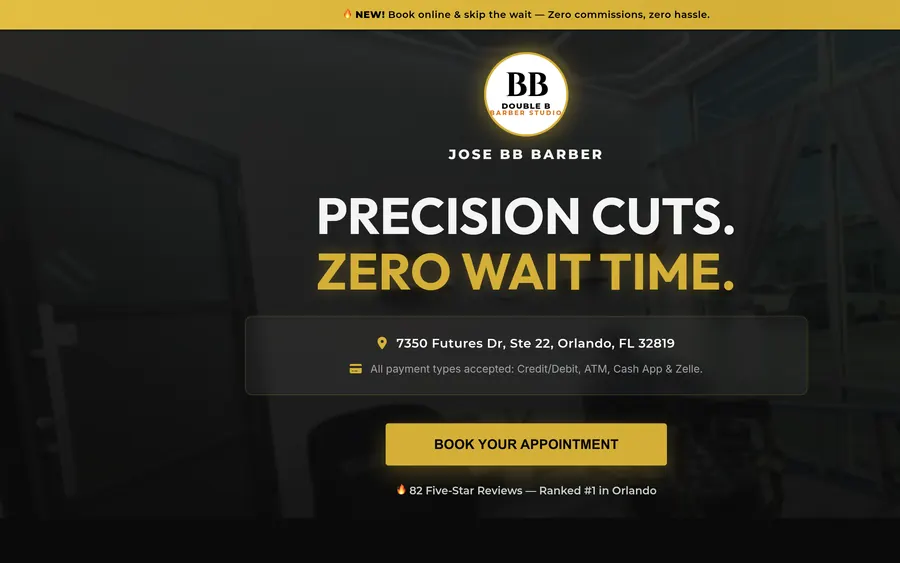
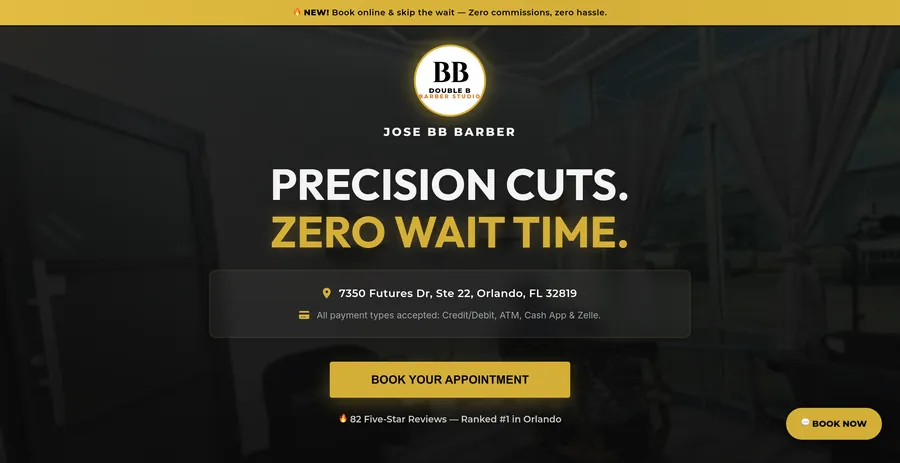
Portfolio shots re-captured centered (full width); demo bar fixed + pushes fixed headers down (no more cut-off nav)

diff --git a/demos/double-b-barber-studio/index.html b/demos/double-b-barber-studio/index.html
@@ -10,7 +10,7 @@
     <link href="https://fonts.googleapis.com/css2?family=Cinzel:wght@700&family=Montserrat:wght@400;600;800&family=Outfit:wght@700;900&family=Inter:wght@400;500&display=swap" rel="stylesheet">
     <link rel="stylesheet" href="https://cdnjs.cloudflare.com/ajax/libs/font-awesome/6.4.0/css/all.min.css">
 </head>
-<body><div style="background:#050a18;color:#9db1c4;text-align:center;padding:8px 12px;font:13px/1.4 Inter,system-ui,sans-serif;position:relative;z-index:99999">Live demo built by <a href="https://alwaysbookedai.tech/" style="color:#00d4ff;text-decoration:none;font-weight:600">Always Booked</a> &middot; <a href="https://alwaysbookedai.tech/#pricing" style="color:#00d4ff;text-decoration:none">Get a site like this &rarr;</a></div>
+<body><div id="ab-demo-bar" style="position:fixed;top:0;left:0;right:0;height:34px;line-height:34px;background:#050a18;color:#9db1c4;text-align:center;font:12.5px/34px Inter,system-ui,sans-serif;white-space:nowrap;overflow:hidden;text-overflow:ellipsis;padding:0 10px;z-index:2147483000;border-bottom:1px solid rgba(0,212,255,.25)">Live demo built by <a href="https://alwaysbookedai.tech/" style="color:#00d4ff;text-decoration:none;font-weight:600">Always Booked</a> &middot; <a href="https://alwaysbookedai.tech/#pricing" style="color:#00d4ff;text-decoration:none">Get a site like this &rarr;</a></div><style>body{padding-top:34px!important}</style><script>(function(){var H=34;function fix(){document.querySelectorAll("body *").forEach(function(el){if(el.id==="ab-demo-bar"||el.closest("#ab-demo-bar"))return;var cs=getComputedStyle(el);if((cs.position==="fixed"||cs.position==="sticky")&&parseFloat(cs.top)===0&&el.getBoundingClientRect().height<200){el.style.top=H+"px";}});}if(document.readyState!=="loading")fix();else document.addEventListener("DOMContentLoaded",fix);})();</script>
 
     <!-- PROMO BANNER -->
     <div class="promo-banner">

diff --git a/index.html b/index.html
@@ -1318,7 +1318,7 @@
             <div class="portfolio-grid">
                 <a href="/demos/double-b-barber-studio/" class="portfolio-card reveal-left">
                     <div class="portfolio-preview portfolio-preview-barber">
-                                            <img class="pf-shot" src="assets/portfolio/barber-demo.webp" loading="lazy" width="900" height="563" alt="Double B Barber Studio website homepage — dark premium barbershop design with online booking">
+                                            <img class="pf-shot" src="assets/portfolio/barber-demo.webp" loading="lazy" width="900" height="463" alt="Double B Barber Studio website homepage — dark premium barbershop design with online booking">
                                             <span class="live-badge">&#9679; Live</span>
                         <h4>Double B Barber Studio</h4>
                         <p>Dark Mode &middot; Premium &middot; High Conversions</p>
@@ -1331,7 +1331,7 @@
                 </a>
                 <a href="/demos/glamour-bridal-salon/" class="portfolio-card reveal-right">
                     <div class="portfolio-preview portfolio-preview-bridal">
-                                            <img class="pf-shot" src="assets/portfolio/bridal-demo.webp" loading="lazy" width="900" height="563" alt="Glamour Bridal and Salon website homepage — elegant bridal beauty design with trial booking">
+                                            <img class="pf-shot" src="assets/portfolio/bridal-demo.webp" loading="lazy" width="900" height="463" alt="Glamour Bridal and Salon website homepage — elegant bridal beauty design with trial booking">
                                             <span class="live-badge">&#9679; Live</span>
                         <h4>Glamour Bridal & Salon</h4>
                         <p>Elegant &middot; Trust-Building &middot; Seamless Booking</p>

diff --git a/demos/glamour-bridal-salon/index.html b/demos/glamour-bridal-salon/index.html
@@ -278,7 +278,7 @@
         .fade-in.visible { opacity: 1; transform: translateY(0); }
     </style>
 </head>
-<body><div style="background:#050a18;color:#9db1c4;text-align:center;padding:8px 12px;font:13px/1.4 Inter,system-ui,sans-serif;position:relative;z-index:99999">Live demo built by <a href="https://alwaysbookedai.tech/" style="color:#00d4ff;text-decoration:none;font-weight:600">Always Booked</a> &middot; <a href="https://alwaysbookedai.tech/#pricing" style="color:#00d4ff;text-decoration:none">Get a site like this &rarr;</a></div>
+<body><div id="ab-demo-bar" style="position:fixed;top:0;left:0;right:0;height:34px;line-height:34px;background:#050a18;color:#9db1c4;text-align:center;font:12.5px/34px Inter,system-ui,sans-serif;white-space:nowrap;overflow:hidden;text-overflow:ellipsis;padding:0 10px;z-index:2147483000;border-bottom:1px solid rgba(0,212,255,.25)">Live demo built by <a href="https://alwaysbookedai.tech/" style="color:#00d4ff;text-decoration:none;font-weight:600">Always Booked</a> &middot; <a href="https://alwaysbookedai.tech/#pricing" style="color:#00d4ff;text-decoration:none">Get a site like this &rarr;</a></div><style>body{padding-top:34px!important}</style><script>(function(){var H=34;function fix(){document.querySelectorAll("body *").forEach(function(el){if(el.id==="ab-demo-bar"||el.closest("#ab-demo-bar"))return;var cs=getComputedStyle(el);if((cs.position==="fixed"||cs.position==="sticky")&&parseFloat(cs.top)===0&&el.getBoundingClientRect().height<200){el.style.top=H+"px";}});}if(document.readyState!=="loading")fix();else document.addEventListener("DOMContentLoaded",fix);})();</script>
 
     <nav>
         <div class="nav-brand">TRUE <span>Artistry</span></div>

diff --git a/scripts/mirror_demos.py b/scripts/mirror_demos.py
@@ -16,14 +16,7 @@ SITES = {
     "glamour-bridal-salon": "https://ubiquitous-sunburst-8851d3.netlify.app/",
 }
 UA = {"User-Agent": "Mozilla/5.0"}
-BAR = (
-    '<div style="background:#050a18;color:#9db1c4;text-align:center;padding:8px 12px;'
-    'font:13px/1.4 Inter,system-ui,sans-serif;position:relative;z-index:99999">'
-    'Live demo built by <a href="https://alwaysbookedai.tech/" style="color:#00d4ff;'
-    'text-decoration:none;font-weight:600">Always Booked</a> &middot; '
-    '<a href="https://alwaysbookedai.tech/#pricing" style="color:#00d4ff;text-decoration:none">'
-    'Get a site like this &rarr;</a></div>'
-)
+BAR = '<div id="ab-demo-bar" style="position:fixed;top:0;left:0;right:0;height:34px;line-height:34px;background:#050a18;color:#9db1c4;text-align:center;font:12.5px/34px Inter,system-ui,sans-serif;white-space:nowrap;overflow:hidden;text-overflow:ellipsis;padding:0 10px;z-index:2147483000;border-bottom:1px solid rgba(0,212,255,.25)">Live demo built by <a href="https://alwaysbookedai.tech/" style="color:#00d4ff;text-decoration:none;font-weight:600">Always Booked</a> &middot; <a href="https://alwaysbookedai.tech/#pricing" style="color:#00d4ff;text-decoration:none">Get a site like this &rarr;</a></div><style>body{padding-top:34px!important}</style><script>(function(){var H=34;function fix(){document.querySelectorAll("body *").forEach(function(el){if(el.id==="ab-demo-bar"||el.closest("#ab-demo-bar"))return;var cs=getComputedStyle(el);if((cs.position==="fixed"||cs.position==="sticky")&&parseFloat(cs.top)===0&&el.getBoundingClientRect().height<200){el.style.top=H+"px";}});}if(document.readyState!=="loading")fix();else document.addEventListener("DOMContentLoaded",fix);})();</script>'
 
 
 def fetch(url):
